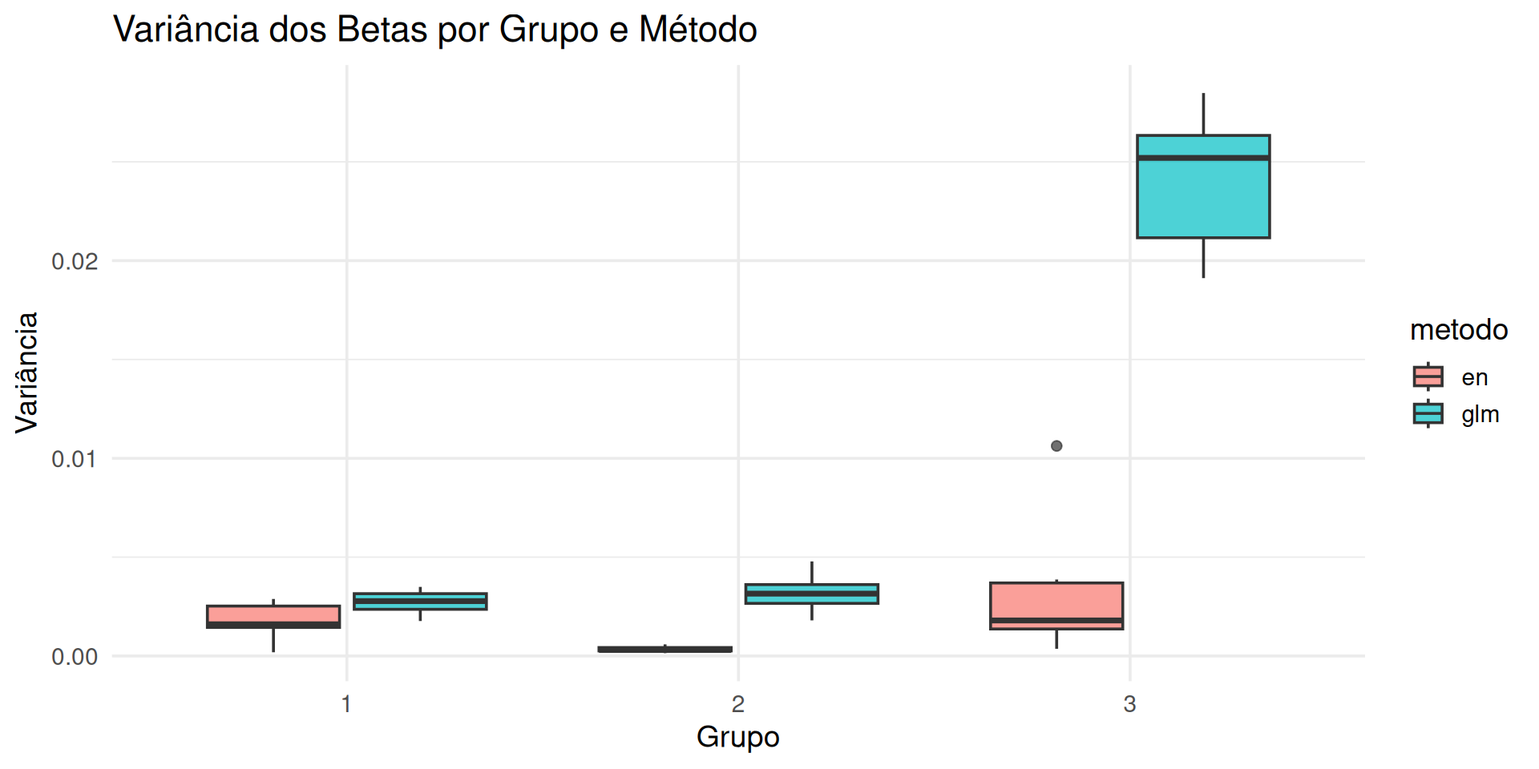
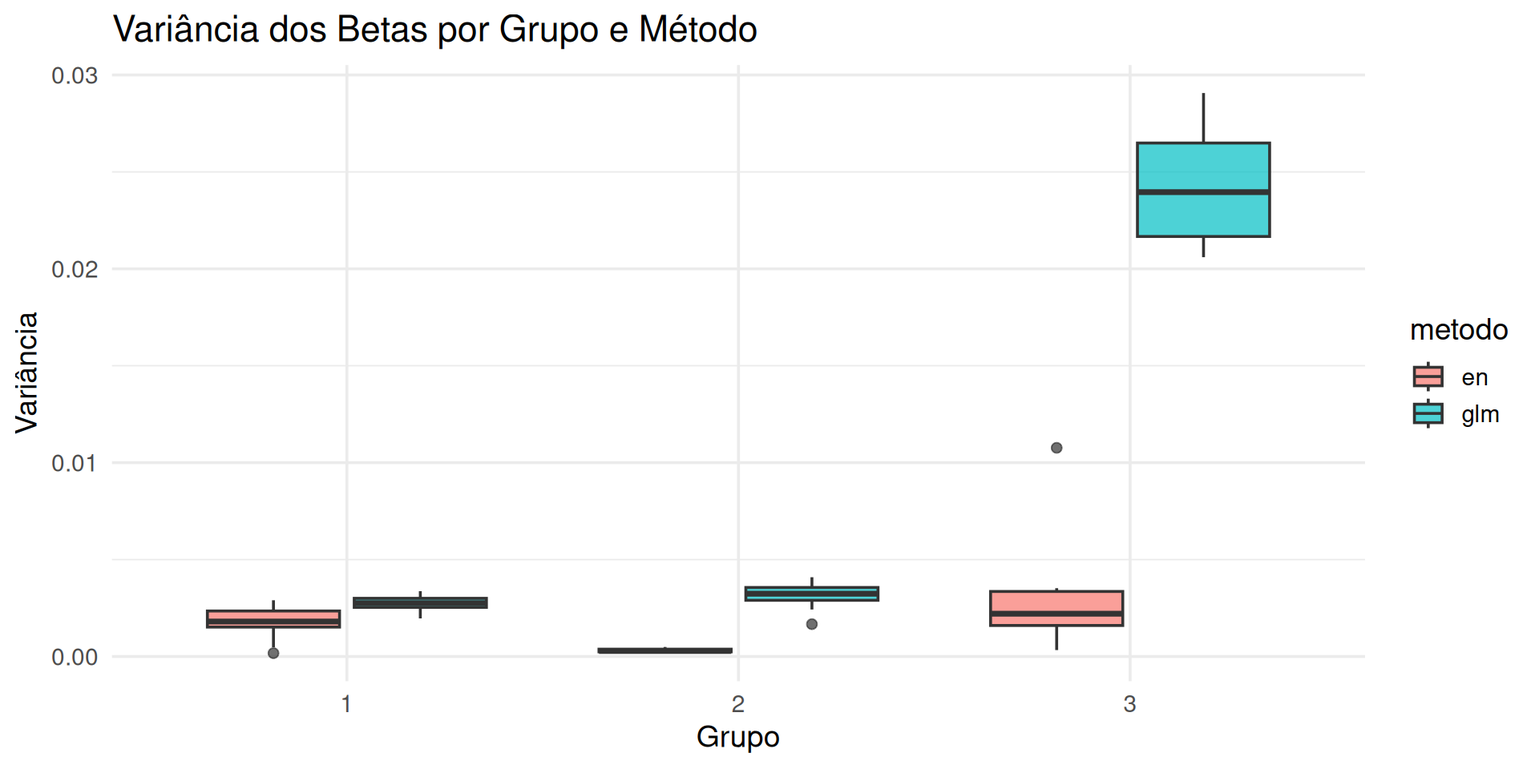
Built site for gh-pages

diff --git a/qmd/estimação.html b/qmd/estimação.html
@@ -273,9 +273,6 @@ window.Quarto = {
 </header>
 
 
-<div style="text-align: right">
-<p>“Se isto for possível,<br> Pois, me contem,<br> Como escrever de novo,<br> Um jornal de ontem”<br> Tom Zé</p>
-</div>
 <section id="regularização-como-um-limiar-suave" class="level2" data-number="2.1">
 <h2 data-number="2.1" class="anchored" data-anchor-id="regularização-como-um-limiar-suave"><span class="header-section-number">2.1</span> Regularização como um limiar suave</h2>
 <p>Até agora vimos exemplos de como a regularização pode ser vista como uma função de perda na estimação de mínimos quadrados. Essa ideia pode ser estendida para a estimação via máxima verossimilhança (como veremos adiante). Antes disso, mostraremos um exemplo (retirado de <span class="citation" data-cites="islr">James, Witten, Hastie, &amp; Tibshirani (<a href="referências.html#ref-islr" role="doc-biblioref">2021</a>)</span>) de como a regressão ridge e lasso diminuem os coeficiente na prática.</p>
@@ -1100,7 +1097,10 @@ t2* 5.723713 0.25242782    3.843777</code></pre>
 MLE  87.5</code></pre>
 </div>
 </div>
+<p>Voltando do exemplo de regressão linear com outlier (erros T-Student).</p>
 <div class="cell">
+<details class="code-fold">
+<summary>Código</summary>
 <div class="code-copy-outer-scaffold"><div class="sourceCode cell-code" id="cb28"><pre class="sourceCode r code-with-copy"><code class="sourceCode r"><span id="cb28-1"><a href="#cb28-1" aria-hidden="true" tabindex="-1"></a><span class="fu">set.seed</span>(<span class="dv">12345</span>)</span>
 <span id="cb28-2"><a href="#cb28-2" aria-hidden="true" tabindex="-1"></a>x <span class="ot">=</span> <span class="fu">cbind</span>(<span class="dv">1</span>, <span class="fu">rnorm</span>(<span class="dv">20</span>))</span>
 <span id="cb28-3"><a href="#cb28-3" aria-hidden="true" tabindex="-1"></a>e <span class="ot">=</span> <span class="fu">rt</span>(<span class="dv">20</span>, <span class="dv">1</span>)</span>
@@ -1120,6 +1120,7 @@ MLE  87.5</code></pre>
 <span id="cb28-17"><a href="#cb28-17" aria-hidden="true" tabindex="-1"></a></span>
 <span id="cb28-18"><a href="#cb28-18" aria-hidden="true" tabindex="-1"></a>res_lasso <span class="ot">=</span> y <span class="sc">-</span> x <span class="sc">%*%</span> beta_lasso</span>
 <span id="cb28-19"><a href="#cb28-19" aria-hidden="true" tabindex="-1"></a>res_lm    <span class="ot">=</span> y <span class="sc">-</span> x <span class="sc">%*%</span> beta_lm</span></code></pre></div><button title="Copiar para a área de transferência" class="code-copy-button"><i class="bi"></i></button></div>
+</details>
 </div>
 <div class="cell">
 <details class="code-fold">
@@ -1139,7 +1140,7 @@ MLE  87.5</code></pre>
 <div class="cell">
 <div class="code-copy-outer-scaffold"><div class="sourceCode cell-code" id="cb30"><pre class="sourceCode r code-with-copy"><code class="sourceCode r"><span id="cb30-1"><a href="#cb30-1" aria-hidden="true" tabindex="-1"></a><span class="fu">set.seed</span>(<span class="dv">12345</span>)</span>
 <span id="cb30-2"><a href="#cb30-2" aria-hidden="true" tabindex="-1"></a></span>
-<span id="cb30-3"><a href="#cb30-3" aria-hidden="true" tabindex="-1"></a>iter <span class="ot">=</span> <span class="dv">200</span></span>
+<span id="cb30-3"><a href="#cb30-3" aria-hidden="true" tabindex="-1"></a>iter <span class="ot">=</span> <span class="dv">400</span></span>
 <span id="cb30-4"><a href="#cb30-4" aria-hidden="true" tabindex="-1"></a>n <span class="ot">=</span> <span class="dv">200</span></span>
 <span id="cb30-5"><a href="#cb30-5" aria-hidden="true" tabindex="-1"></a>bloco <span class="ot">=</span> <span class="dv">10</span></span>
 <span id="cb30-6"><a href="#cb30-6" aria-hidden="true" tabindex="-1"></a></span>
@@ -1189,7 +1190,7 @@ MLE  87.5</code></pre>
 <span id="cb31-3"><a href="#cb31-3" aria-hidden="true" tabindex="-1"></a>  <span class="cf">for</span> (metodo <span class="cf">in</span> <span class="fu">c</span>(<span class="st">"glm"</span>, <span class="st">"en"</span>)) {</span>
 <span id="cb31-4"><a href="#cb31-4" aria-hidden="true" tabindex="-1"></a>    <span class="cf">for</span> (i <span class="cf">in</span> <span class="fu">seq_along</span>(idxs)) {</span>
 <span id="cb31-5"><a href="#cb31-5" aria-hidden="true" tabindex="-1"></a>      beta_idx <span class="ot">=</span> idxs[i]</span>
-<span id="cb31-6"><a href="#cb31-6" aria-hidden="true" tabindex="-1"></a>      beta_number <span class="ot">=</span> beta_idx <span class="sc">-</span> <span class="dv">1</span>   <span class="co"># como pedido</span></span>
+<span id="cb31-6"><a href="#cb31-6" aria-hidden="true" tabindex="-1"></a>      beta_number <span class="ot">=</span> beta_idx <span class="sc">-</span> <span class="dv">1</span></span>
 <span id="cb31-7"><a href="#cb31-7" aria-hidden="true" tabindex="-1"></a>      </span>
 <span id="cb31-8"><a href="#cb31-8" aria-hidden="true" tabindex="-1"></a>      <span class="fu">hist</span>(</span>
 <span id="cb31-9"><a href="#cb31-9" aria-hidden="true" tabindex="-1"></a>        estimativas[metodo, beta_idx, ],</span>
@@ -1197,21 +1198,22 @@ MLE  87.5</code></pre>
 <span id="cb31-11"><a href="#cb31-11" aria-hidden="true" tabindex="-1"></a>        <span class="at">xlab =</span> <span class="st">""</span>, <span class="at">ylab =</span> <span class="st">""</span>,</span>
 <span id="cb31-12"><a href="#cb31-12" aria-hidden="true" tabindex="-1"></a>        <span class="at">xlim =</span> xlims[[i]]</span>
 <span id="cb31-13"><a href="#cb31-13" aria-hidden="true" tabindex="-1"></a>      )</span>
-<span id="cb31-14"><a href="#cb31-14" aria-hidden="true" tabindex="-1"></a>    }</span>
-<span id="cb31-15"><a href="#cb31-15" aria-hidden="true" tabindex="-1"></a>    </span>
-<span id="cb31-16"><a href="#cb31-16" aria-hidden="true" tabindex="-1"></a>  }</span>
-<span id="cb31-17"><a href="#cb31-17" aria-hidden="true" tabindex="-1"></a>}</span>
-<span id="cb31-18"><a href="#cb31-18" aria-hidden="true" tabindex="-1"></a></span>
-<span id="cb31-19"><a href="#cb31-19" aria-hidden="true" tabindex="-1"></a><span class="fu">plot_hist_block</span>(</span>
-<span id="cb31-20"><a href="#cb31-20" aria-hidden="true" tabindex="-1"></a>  <span class="at">idxs =</span> <span class="fu">c</span>(<span class="dv">1</span>, <span class="dv">4</span>, <span class="dv">11</span>),</span>
-<span id="cb31-21"><a href="#cb31-21" aria-hidden="true" tabindex="-1"></a>  <span class="at">xlims =</span> <span class="fu">list</span>(<span class="fu">c</span>(<span class="sc">-</span><span class="fl">0.2</span>, <span class="fl">0.5</span>), <span class="fu">c</span>(<span class="fl">0.1</span>, <span class="fl">0.5</span>), <span class="fu">c</span>(<span class="fl">0.5</span>, <span class="fl">0.9</span>))</span>
-<span id="cb31-22"><a href="#cb31-22" aria-hidden="true" tabindex="-1"></a>)</span></code></pre></div><button title="Copiar para a área de transferência" class="code-copy-button"><i class="bi"></i></button></div>
+<span id="cb31-14"><a href="#cb31-14" aria-hidden="true" tabindex="-1"></a>      <span class="fu">abline</span>(<span class="at">v =</span> beta[idxs[i]], <span class="at">col =</span> <span class="dv">2</span>, <span class="at">lwd =</span> <span class="dv">2</span>)</span>
+<span id="cb31-15"><a href="#cb31-15" aria-hidden="true" tabindex="-1"></a>    }</span>
+<span id="cb31-16"><a href="#cb31-16" aria-hidden="true" tabindex="-1"></a>    </span>
+<span id="cb31-17"><a href="#cb31-17" aria-hidden="true" tabindex="-1"></a>  }</span>
+<span id="cb31-18"><a href="#cb31-18" aria-hidden="true" tabindex="-1"></a>}</span>
+<span id="cb31-19"><a href="#cb31-19" aria-hidden="true" tabindex="-1"></a></span>
+<span id="cb31-20"><a href="#cb31-20" aria-hidden="true" tabindex="-1"></a><span class="fu">plot_hist_block</span>(</span>
+<span id="cb31-21"><a href="#cb31-21" aria-hidden="true" tabindex="-1"></a>  <span class="at">idxs =</span> <span class="fu">c</span>(<span class="dv">1</span>, <span class="dv">4</span>, <span class="dv">11</span>),</span>
+<span id="cb31-22"><a href="#cb31-22" aria-hidden="true" tabindex="-1"></a>  <span class="at">xlims =</span> <span class="fu">list</span>(<span class="fu">c</span>(<span class="sc">-</span><span class="fl">0.2</span>, <span class="fl">0.5</span>), <span class="fu">c</span>(<span class="fl">0.1</span>, <span class="fl">0.5</span>), <span class="fu">c</span>(<span class="fl">0.5</span>, <span class="fl">0.9</span>))</span>
+<span id="cb31-23"><a href="#cb31-23" aria-hidden="true" tabindex="-1"></a>)</span></code></pre></div><button title="Copiar para a área de transferência" class="code-copy-button"><i class="bi"></i></button></div>
 </details>
 <div class="cell-output-display">
 <div class="quarto-figure quarto-figure-center">
 <figure class="figure">
 <p><img src="estimação_files/figure-html/unnamed-chunk-30-1.png" class="img-fluid figure-img" width="672"></p>
-<figcaption>Variâncias dos betas do grupo 1 (significativos)</figcaption>
+<figcaption>Variâncias dos betas do grupo 1 (significativos), beta real em vermelho.</figcaption>
 </figure>
 </div>
 </div>
@@ -1228,7 +1230,7 @@ MLE  87.5</code></pre>
 <div class="quarto-figure quarto-figure-center">
 <figure class="figure">
 <p><img src="estimação_files/figure-html/unnamed-chunk-31-1.png" class="img-fluid figure-img" width="672"></p>
-<figcaption>Variâncias dos betas do grupo 2 (não significativos)</figcaption>
+<figcaption>Variâncias dos betas do grupo 2 (não significativos), beta real em vermelho.</figcaption>
 </figure>
 </div>
 </div>
@@ -1245,7 +1247,7 @@ MLE  87.5</code></pre>
 <div class="quarto-figure quarto-figure-center">
 <figure class="figure">
 <p><img src="estimação_files/figure-html/unnamed-chunk-32-1.png" class="img-fluid figure-img" width="672"></p>
-<figcaption>Variâncias dos betas do grupo 3 (covariáveis autocorrelacionadas)</figcaption>
+<figcaption>Variâncias dos betas do grupo 3 (covariáveis autocorrelacionadas), beta real em vermelho.</figcaption>
 </figure>
 </div>
 </div>
@@ -1344,9 +1346,9 @@ MLE  87.5</code></pre>
 <span id="cb36-15"><a href="#cb36-15" aria-hidden="true" tabindex="-1"></a>  dplyr<span class="sc">::</span><span class="fu">mutate</span>(<span class="at">iter =</span> <span class="fu">as.integer</span>(iter))</span>
 <span id="cb36-16"><a href="#cb36-16" aria-hidden="true" tabindex="-1"></a></span>
 <span id="cb36-17"><a href="#cb36-17" aria-hidden="true" tabindex="-1"></a><span class="fu">ggplot</span>(norma,</span>
-<span id="cb36-18"><a href="#cb36-18" aria-hidden="true" tabindex="-1"></a>       <span class="fu">aes</span>(<span class="at">x =</span> metodo, <span class="at">y =</span> valor, <span class="at">fill =</span> norma)) <span class="sc">+</span></span>
+<span id="cb36-18"><a href="#cb36-18" aria-hidden="true" tabindex="-1"></a>       <span class="fu">aes</span>(<span class="at">x =</span> norma, <span class="at">y =</span> valor, <span class="at">fill =</span> metodo)) <span class="sc">+</span></span>
 <span id="cb36-19"><a href="#cb36-19" aria-hidden="true" tabindex="-1"></a>  <span class="fu">geom_boxplot</span>(<span class="at">alpha =</span> <span class="fl">0.7</span>) <span class="sc">+</span></span>
-<span id="cb36-20"><a href="#cb36-20" aria-hidden="true" tabindex="-1"></a>  <span class="fu">labs</span>(<span class="at">x =</span> <span class="st">"Método"</span>, <span class="at">y =</span> <span class="st">"Norma"</span>,</span>
+<span id="cb36-20"><a href="#cb36-20" aria-hidden="true" tabindex="-1"></a>  <span class="fu">labs</span>(<span class="at">x =</span> <span class="st">"Tipo de norma"</span>, <span class="at">y =</span> <span class="st">"Norma"</span>,</span>
 <span id="cb36-21"><a href="#cb36-21" aria-hidden="true" tabindex="-1"></a>       <span class="at">title =</span> <span class="st">"Norma dos Betas (ao longo das iterações bootstrap)"</span>) <span class="sc">+</span></span>
 <span id="cb36-22"><a href="#cb36-22" aria-hidden="true" tabindex="-1"></a>  <span class="fu">theme_minimal</span>(<span class="at">base_size =</span> <span class="dv">14</span>)</span></code></pre></div><button title="Copiar para a área de transferência" class="code-copy-button"><i class="bi"></i></button></div>
 </details>
@@ -1358,6 +1360,54 @@ MLE  87.5</code></pre>
 </div>
 </div>
 </div>
+<p>Como esperado, as normas de beta (em cada iteração e excluído o intercepto) são, em geral, menores na regressão EN comparado com o MLE.</p>
+<div class="cell">
+<details class="code-fold">
+<summary>Código</summary>
+<div class="code-copy-outer-scaffold"><div class="sourceCode cell-code" id="cb37"><pre class="sourceCode r code-with-copy"><code class="sourceCode r"><span id="cb37-1"><a href="#cb37-1" aria-hidden="true" tabindex="-1"></a><span class="fu">library</span>(dplyr)</span>
+<span id="cb37-2"><a href="#cb37-2" aria-hidden="true" tabindex="-1"></a><span class="fu">library</span>(tidyr)</span>
+<span id="cb37-3"><a href="#cb37-3" aria-hidden="true" tabindex="-1"></a></span>
+<span id="cb37-4"><a href="#cb37-4" aria-hidden="true" tabindex="-1"></a>significancia <span class="ot">=</span></span>
+<span id="cb37-5"><a href="#cb37-5" aria-hidden="true" tabindex="-1"></a>  estimativas <span class="sc">|&gt;</span></span>
+<span id="cb37-6"><a href="#cb37-6" aria-hidden="true" tabindex="-1"></a>  <span class="fu">apply</span>(<span class="fu">c</span>(<span class="dv">1</span>,<span class="dv">2</span>),</span>
+<span id="cb37-7"><a href="#cb37-7" aria-hidden="true" tabindex="-1"></a>        <span class="cf">function</span>(x) {q <span class="ot">=</span> <span class="fu">quantile</span>(x, <span class="at">probs =</span> <span class="fu">c</span>(.<span class="dv">025</span>, .<span class="dv">975</span>)); <span class="dv">0</span> <span class="sc">&gt;</span> q[<span class="dv">1</span>] <span class="sc">&amp;</span> <span class="dv">0</span> <span class="sc">&lt;</span> q[<span class="dv">2</span>]}</span>
+<span id="cb37-8"><a href="#cb37-8" aria-hidden="true" tabindex="-1"></a>        ) <span class="sc">|&gt;</span></span>
+<span id="cb37-9"><a href="#cb37-9" aria-hidden="true" tabindex="-1"></a>  <span class="fu">rbind</span>(<span class="st">"real"</span> <span class="ot">=</span> beta <span class="sc">==</span> <span class="dv">0</span>) <span class="sc">|&gt;</span></span>
+<span id="cb37-10"><a href="#cb37-10" aria-hidden="true" tabindex="-1"></a>  <span class="fu">t</span>() <span class="sc">|&gt;</span></span>
+<span id="cb37-11"><a href="#cb37-11" aria-hidden="true" tabindex="-1"></a>  {\(.) <span class="sc">!</span>.[,<span class="fu">c</span>(<span class="dv">3</span>,<span class="dv">1</span>,<span class="dv">2</span>)]}() <span class="sc">|&gt;</span></span>
+<span id="cb37-12"><a href="#cb37-12" aria-hidden="true" tabindex="-1"></a>  tibble<span class="sc">::</span><span class="fu">as_tibble</span>()</span>
+<span id="cb37-13"><a href="#cb37-13" aria-hidden="true" tabindex="-1"></a></span>
+<span id="cb37-14"><a href="#cb37-14" aria-hidden="true" tabindex="-1"></a>significancia_long<span class="ot">=</span></span>
+<span id="cb37-15"><a href="#cb37-15" aria-hidden="true" tabindex="-1"></a>  significancia <span class="sc">|&gt;</span></span>
+<span id="cb37-16"><a href="#cb37-16" aria-hidden="true" tabindex="-1"></a>  <span class="fu">mutate</span>(<span class="at">sim =</span> <span class="fu">row_number</span>()) <span class="sc">|&gt;</span></span>
+<span id="cb37-17"><a href="#cb37-17" aria-hidden="true" tabindex="-1"></a>  <span class="fu">pivot_longer</span>(<span class="sc">-</span>sim, <span class="at">names_to =</span> <span class="st">"modelo"</span>, <span class="at">values_to =</span> <span class="st">"sig"</span>) <span class="sc">|&gt;</span></span>
+<span id="cb37-18"><a href="#cb37-18" aria-hidden="true" tabindex="-1"></a>  <span class="fu">mutate</span>(<span class="at">sim =</span> sim <span class="sc">-</span> <span class="dv">1</span>)</span>
+<span id="cb37-19"><a href="#cb37-19" aria-hidden="true" tabindex="-1"></a></span>
+<span id="cb37-20"><a href="#cb37-20" aria-hidden="true" tabindex="-1"></a><span class="fu">ggplot</span>(significancia_long, <span class="fu">aes</span>(<span class="at">x =</span> modelo, <span class="at">y =</span> sim, <span class="at">fill =</span> sig)) <span class="sc">+</span></span>
+<span id="cb37-21"><a href="#cb37-21" aria-hidden="true" tabindex="-1"></a>  <span class="fu">geom_tile</span>(<span class="at">color =</span> <span class="st">"white"</span>) <span class="sc">+</span></span>
+<span id="cb37-22"><a href="#cb37-22" aria-hidden="true" tabindex="-1"></a>  <span class="fu">scale_fill_manual</span>(</span>
+<span id="cb37-23"><a href="#cb37-23" aria-hidden="true" tabindex="-1"></a>    <span class="at">values =</span> <span class="fu">c</span>(<span class="st">`</span><span class="at">TRUE</span><span class="st">`</span> <span class="ot">=</span> <span class="st">"darkgreen"</span>, <span class="st">`</span><span class="at">FALSE</span><span class="st">`</span> <span class="ot">=</span> <span class="st">"red"</span>),</span>
+<span id="cb37-24"><a href="#cb37-24" aria-hidden="true" tabindex="-1"></a>    <span class="at">labels =</span> <span class="fu">c</span>(<span class="st">"Não significativo"</span>, <span class="st">"Significativo"</span>)</span>
+<span id="cb37-25"><a href="#cb37-25" aria-hidden="true" tabindex="-1"></a>  ) <span class="sc">+</span></span>
+<span id="cb37-26"><a href="#cb37-26" aria-hidden="true" tabindex="-1"></a>  <span class="fu">scale_y_reverse</span>() <span class="sc">+</span></span>
+<span id="cb37-27"><a href="#cb37-27" aria-hidden="true" tabindex="-1"></a>  <span class="fu">labs</span>(<span class="at">x =</span> <span class="st">"Modelo"</span>, <span class="at">y =</span> <span class="st">"Beta"</span>, <span class="at">fill =</span> <span class="st">""</span>) <span class="sc">+</span></span>
+<span id="cb37-28"><a href="#cb37-28" aria-hidden="true" tabindex="-1"></a>  <span class="fu">theme_minimal</span>() <span class="sc">+</span></span>
+<span id="cb37-29"><a href="#cb37-29" aria-hidden="true" tabindex="-1"></a>  <span class="fu">theme</span>(</span>
+<span id="cb37-30"><a href="#cb37-30" aria-hidden="true" tabindex="-1"></a>    <span class="at">axis.text.x =</span> <span class="fu">element_text</span>(<span class="at">angle =</span> <span class="dv">270</span>, <span class="at">hjust =</span> <span class="dv">1</span>),</span>
+<span id="cb37-31"><a href="#cb37-31" aria-hidden="true" tabindex="-1"></a>    <span class="at">panel.grid.major =</span> <span class="fu">element_blank</span>(),</span>
+<span id="cb37-32"><a href="#cb37-32" aria-hidden="true" tabindex="-1"></a>    <span class="at">panel.grid.minor =</span> <span class="fu">element_blank</span>()</span>
+<span id="cb37-33"><a href="#cb37-33" aria-hidden="true" tabindex="-1"></a>  ) <span class="sc">+</span></span>
+<span id="cb37-34"><a href="#cb37-34" aria-hidden="true" tabindex="-1"></a>  <span class="fu">coord_equal</span>()</span></code></pre></div><button title="Copiar para a área de transferência" class="code-copy-button"><i class="bi"></i></button></div>
+</details>
+<div class="cell-output-display">
+<div>
+<figure class="figure">
+<p><img src="estimação_files/figure-html/unnamed-chunk-36-1.png" class="img-fluid figure-img" width="672"></p>
+</figure>
+</div>
+</div>
+</div>
+<p>Acima temos uma pseudo-significância dos estimadores.</p>
 
 
 <div id="refs" class="references csl-bib-body hanging-indent" data-entry-spacing="0" data-line-spacing="2" role="list" style="display: none">

diff --git a/qmd/tunagem.html b/qmd/tunagem.html
@@ -302,21 +302,11 @@ P_{\alpha, \lambda}(\beta) =
 <p>Fixado um <span class="math inline">\(\alpha\)</span>, a seleção de <span class="math inline">\(\lambda\)</span> feita pelo <code>glmnet</code> <span class="citation" data-cites="en_glm">Tay et al. (<a href="referências.html#ref-en_glm" role="doc-biblioref">2023</a>)</span></p>
 <p>Lambda pode ser selecionado como aquele que dá um modelo com tantas covariáveis.</p>
 <div class="cell">
-<div class="code-copy-outer-scaffold"><div class="sourceCode cell-code" id="cb1"><pre class="sourceCode r code-with-copy"><code class="sourceCode r"><span id="cb1-1"><a href="#cb1-1" aria-hidden="true" tabindex="-1"></a><span class="fu">library</span>(glmnet)</span></code></pre></div><button title="Copiar para a área de transferência" class="code-copy-button"><i class="bi"></i></button></div>
-<div class="cell-output cell-output-stderr">
-<pre><code>Loading required package: Matrix</code></pre>
-</div>
-<div class="cell-output cell-output-stderr">
-<pre><code>Loaded glmnet 4.1-10</code></pre>
-</div>
-<div class="code-copy-outer-scaffold"><div class="sourceCode cell-code" id="cb4"><pre class="sourceCode r code-with-copy"><code class="sourceCode r"><span id="cb4-1"><a href="#cb4-1" aria-hidden="true" tabindex="-1"></a>x <span class="ot">=</span> <span class="fu">cbind</span>(<span class="dv">1</span>, <span class="dv">1</span><span class="sc">:</span><span class="dv">10</span>)</span>
-<span id="cb4-2"><a href="#cb4-2" aria-hidden="true" tabindex="-1"></a>y <span class="ot">=</span> <span class="dv">1</span><span class="sc">:</span><span class="dv">10</span><span class="sc">+</span><span class="dv">1</span></span>
-<span id="cb4-3"><a href="#cb4-3" aria-hidden="true" tabindex="-1"></a>fit <span class="ot">=</span> <span class="fu">glmnet</span>(x, y)</span>
-<span id="cb4-4"><a href="#cb4-4" aria-hidden="true" tabindex="-1"></a><span class="fu">plot</span>(fit)</span></code></pre></div><button title="Copiar para a área de transferência" class="code-copy-button"><i class="bi"></i></button></div>
-<div class="cell-output cell-output-stderr">
-<pre><code>Warning in plotCoef(x$beta, lambda = x$lambda, df = x$df, dev = x$dev.ratio, :
-1 or less nonzero coefficients; glmnet plot is not meaningful</code></pre>
-</div>
+<div class="code-copy-outer-scaffold"><div class="sourceCode cell-code" id="cb1"><pre class="sourceCode r code-with-copy"><code class="sourceCode r"><span id="cb1-1"><a href="#cb1-1" aria-hidden="true" tabindex="-1"></a><span class="fu">library</span>(glmnet)</span>
+<span id="cb1-2"><a href="#cb1-2" aria-hidden="true" tabindex="-1"></a>x <span class="ot">=</span> <span class="fu">cbind</span>(<span class="dv">1</span>, <span class="dv">1</span><span class="sc">:</span><span class="dv">10</span>)</span>
+<span id="cb1-3"><a href="#cb1-3" aria-hidden="true" tabindex="-1"></a>y <span class="ot">=</span> <span class="dv">1</span><span class="sc">:</span><span class="dv">10</span><span class="sc">+</span><span class="dv">1</span></span>
+<span id="cb1-4"><a href="#cb1-4" aria-hidden="true" tabindex="-1"></a>fit <span class="ot">=</span> <span class="fu">glmnet</span>(x, y)</span>
+<span id="cb1-5"><a href="#cb1-5" aria-hidden="true" tabindex="-1"></a><span class="fu">plot</span>(fit)</span></code></pre></div><button title="Copiar para a área de transferência" class="code-copy-button"><i class="bi"></i></button></div>
 <div class="cell-output-display">
 <div>
 <figure class="figure">
@@ -326,12 +316,8 @@ P_{\alpha, \lambda}(\beta) =
 </div>
 </div>
 <div class="cell">
-<div class="code-copy-outer-scaffold"><div class="sourceCode cell-code" id="cb6"><pre class="sourceCode r code-with-copy"><code class="sourceCode r"><span id="cb6-1"><a href="#cb6-1" aria-hidden="true" tabindex="-1"></a>cvfit <span class="ot">=</span> <span class="fu">cv.glmnet</span>(x, y)</span></code></pre></div><button title="Copiar para a área de transferência" class="code-copy-button"><i class="bi"></i></button></div>
-<div class="cell-output cell-output-stderr">
-<pre><code>Warning: Option grouped=FALSE enforced in cv.glmnet, since &lt; 3 observations per
-fold</code></pre>
-</div>
-<div class="code-copy-outer-scaffold"><div class="sourceCode cell-code" id="cb8"><pre class="sourceCode r code-with-copy"><code class="sourceCode r"><span id="cb8-1"><a href="#cb8-1" aria-hidden="true" tabindex="-1"></a><span class="fu">plot</span>(cvfit)</span></code></pre></div><button title="Copiar para a área de transferência" class="code-copy-button"><i class="bi"></i></button></div>
+<div class="code-copy-outer-scaffold"><div class="sourceCode cell-code" id="cb2"><pre class="sourceCode r code-with-copy"><code class="sourceCode r"><span id="cb2-1"><a href="#cb2-1" aria-hidden="true" tabindex="-1"></a>cvfit <span class="ot">=</span> <span class="fu">cv.glmnet</span>(x, y)</span>
+<span id="cb2-2"><a href="#cb2-2" aria-hidden="true" tabindex="-1"></a><span class="fu">plot</span>(cvfit)</span></code></pre></div><button title="Copiar para a área de transferência" class="code-copy-button"><i class="bi"></i></button></div>
 <div class="cell-output-display">
 <div>
 <figure class="figure">
@@ -349,42 +335,42 @@ fold</code></pre>
 <p>O EQM de <span class="math inline">\(\lambda'\)</span> será a média do EQM dos <span class="math inline">\(K\)</span> subconjuntos.</p>
 <p>As linhas verticais pontilhadas trazem valores especiais de <span class="math inline">\(\lambda\)</span>. <code>lambda.min</code> é o valor de <span class="math inline">\(\lambda\)</span> que dá o modelo com menor EQM. Com isso, o programa calcula <code>lambda.1se</code>, o <span class="math inline">\(\lambda\)</span> que está um desvio padrão acima de <code>lambda.min</code>. Isso permite que o modelo cresça ao máximo as estimativas dos betas sem crescer muito o MSE.</p>
 <div class="cell">
-<div class="code-copy-outer-scaffold"><div class="sourceCode cell-code" id="cb9"><pre class="sourceCode r code-with-copy"><code class="sourceCode r"><span id="cb9-1"><a href="#cb9-1" aria-hidden="true" tabindex="-1"></a>cvfit<span class="sc">$</span>lambda.min</span></code></pre></div><button title="Copiar para a área de transferência" class="code-copy-button"><i class="bi"></i></button></div>
+<div class="code-copy-outer-scaffold"><div class="sourceCode cell-code" id="cb3"><pre class="sourceCode r code-with-copy"><code class="sourceCode r"><span id="cb3-1"><a href="#cb3-1" aria-hidden="true" tabindex="-1"></a>cvfit<span class="sc">$</span>lambda.min</span></code></pre></div><button title="Copiar para a área de transferência" class="code-copy-button"><i class="bi"></i></button></div>
 <div class="cell-output cell-output-stdout">
 <pre><code>[1] 0.08372852</code></pre>
 </div>
-<div class="code-copy-outer-scaffold"><div class="sourceCode cell-code" id="cb11"><pre class="sourceCode r code-with-copy"><code class="sourceCode r"><span id="cb11-1"><a href="#cb11-1" aria-hidden="true" tabindex="-1"></a>cvfit<span class="sc">$</span>lambda<span class="fl">.1</span>se</span></code></pre></div><button title="Copiar para a área de transferência" class="code-copy-button"><i class="bi"></i></button></div>
+<div class="code-copy-outer-scaffold"><div class="sourceCode cell-code" id="cb5"><pre class="sourceCode r code-with-copy"><code class="sourceCode r"><span id="cb5-1"><a href="#cb5-1" aria-hidden="true" tabindex="-1"></a>cvfit<span class="sc">$</span>lambda<span class="fl">.1</span>se</span></code></pre></div><button title="Copiar para a área de transferência" class="code-copy-button"><i class="bi"></i></button></div>
 <div class="cell-output cell-output-stdout">
 <pre><code>[1] 0.09189195</code></pre>
 </div>
 </div>
 <p>A predição de novos valores é feita por meio da função <code>predict</code></p>
 <div class="cell">
-<div class="code-copy-outer-scaffold"><div class="sourceCode cell-code" id="cb13"><pre class="sourceCode r code-with-copy"><code class="sourceCode r"><span id="cb13-1"><a href="#cb13-1" aria-hidden="true" tabindex="-1"></a><span class="fu">predict</span>(cvfit, <span class="at">newx =</span> <span class="fu">cbind</span>(<span class="dv">1</span>, <span class="dv">12</span>), <span class="at">s =</span> <span class="st">"lambda.min"</span>)</span></code></pre></div><button title="Copiar para a área de transferência" class="code-copy-button"><i class="bi"></i></button></div>
+<div class="code-copy-outer-scaffold"><div class="sourceCode cell-code" id="cb7"><pre class="sourceCode r code-with-copy"><code class="sourceCode r"><span id="cb7-1"><a href="#cb7-1" aria-hidden="true" tabindex="-1"></a><span class="fu">predict</span>(cvfit, <span class="at">newx =</span> <span class="fu">cbind</span>(<span class="dv">1</span>, <span class="dv">12</span>), <span class="at">s =</span> <span class="st">"lambda.min"</span>)</span></code></pre></div><button title="Copiar para a área de transferência" class="code-copy-button"><i class="bi"></i></button></div>
 <div class="cell-output cell-output-stdout">
 <pre><code>     lambda.min
 [1,]   12.81052</code></pre>
 </div>
 </div>
 <div class="cell">
-<div class="code-copy-outer-scaffold"><div class="sourceCode cell-code" id="cb15"><pre class="sourceCode r code-with-copy"><code class="sourceCode r"><span id="cb15-1"><a href="#cb15-1" aria-hidden="true" tabindex="-1"></a><span class="fu">set.seed</span>(<span class="dv">12345</span>)</span>
-<span id="cb15-2"><a href="#cb15-2" aria-hidden="true" tabindex="-1"></a></span>
-<span id="cb15-3"><a href="#cb15-3" aria-hidden="true" tabindex="-1"></a>n <span class="ot">=</span> <span class="dv">200</span></span>
-<span id="cb15-4"><a href="#cb15-4" aria-hidden="true" tabindex="-1"></a>bloco <span class="ot">=</span> <span class="dv">10</span></span>
-<span id="cb15-5"><a href="#cb15-5" aria-hidden="true" tabindex="-1"></a></span>
-<span id="cb15-6"><a href="#cb15-6" aria-hidden="true" tabindex="-1"></a>X1 <span class="ot">=</span> <span class="fu">matrix</span>(<span class="fu">rnorm</span>(n<span class="sc">*</span>bloco<span class="sc">*</span><span class="dv">2</span>), <span class="at">ncol =</span> bloco<span class="sc">*</span><span class="dv">2</span>)</span>
-<span id="cb15-7"><a href="#cb15-7" aria-hidden="true" tabindex="-1"></a>beta1 <span class="ot">=</span> <span class="fu">c</span>( <span class="fu">runif</span>(bloco,<span class="sc">-</span><span class="fl">0.7</span>,<span class="fl">0.7</span>), <span class="fu">rep</span>(<span class="dv">0</span>,bloco) )</span>
-<span id="cb15-8"><a href="#cb15-8" aria-hidden="true" tabindex="-1"></a></span>
-<span id="cb15-9"><a href="#cb15-9" aria-hidden="true" tabindex="-1"></a>sigma <span class="ot">=</span></span>
-<span id="cb15-10"><a href="#cb15-10" aria-hidden="true" tabindex="-1"></a>  <span class="fu">matrix</span>(.<span class="dv">9</span>, <span class="at">nrow =</span> bloco, <span class="at">ncol =</span> bloco) <span class="sc">|&gt;</span></span>
-<span id="cb15-11"><a href="#cb15-11" aria-hidden="true" tabindex="-1"></a>  <span class="st">`</span><span class="at">diag&lt;-</span><span class="st">`</span>(<span class="dv">1</span>)</span>
-<span id="cb15-12"><a href="#cb15-12" aria-hidden="true" tabindex="-1"></a>X2 <span class="ot">=</span> mvtnorm<span class="sc">::</span><span class="fu">rmvnorm</span>(n, <span class="at">sigma =</span> sigma)</span>
-<span id="cb15-13"><a href="#cb15-13" aria-hidden="true" tabindex="-1"></a>beta2 <span class="ot">=</span> <span class="fu">c</span>(<span class="fl">0.6</span>, <span class="fu">rep</span>(<span class="dv">0</span>,bloco<span class="dv">-1</span>))</span>
-<span id="cb15-14"><a href="#cb15-14" aria-hidden="true" tabindex="-1"></a></span>
-<span id="cb15-15"><a href="#cb15-15" aria-hidden="true" tabindex="-1"></a>X <span class="ot">=</span> <span class="fu">cbind</span>(<span class="dv">1</span>,X1,X2)</span>
-<span id="cb15-16"><a href="#cb15-16" aria-hidden="true" tabindex="-1"></a>beta <span class="ot">=</span> <span class="fu">c</span>(<span class="fl">0.1</span>,beta1,beta2)</span>
-<span id="cb15-17"><a href="#cb15-17" aria-hidden="true" tabindex="-1"></a>eta <span class="ot">=</span> <span class="fu">exp</span>(X <span class="sc">%*%</span> beta)</span>
-<span id="cb15-18"><a href="#cb15-18" aria-hidden="true" tabindex="-1"></a>Y <span class="ot">=</span> <span class="fu">rpois</span>(n, eta)</span></code></pre></div><button title="Copiar para a área de transferência" class="code-copy-button"><i class="bi"></i></button></div>
+<div class="code-copy-outer-scaffold"><div class="sourceCode cell-code" id="cb9"><pre class="sourceCode r code-with-copy"><code class="sourceCode r"><span id="cb9-1"><a href="#cb9-1" aria-hidden="true" tabindex="-1"></a><span class="fu">set.seed</span>(<span class="dv">12345</span>)</span>
+<span id="cb9-2"><a href="#cb9-2" aria-hidden="true" tabindex="-1"></a></span>
+<span id="cb9-3"><a href="#cb9-3" aria-hidden="true" tabindex="-1"></a>n <span class="ot">=</span> <span class="dv">200</span></span>
+<span id="cb9-4"><a href="#cb9-4" aria-hidden="true" tabindex="-1"></a>bloco <span class="ot">=</span> <span class="dv">10</span></span>
+<span id="cb9-5"><a href="#cb9-5" aria-hidden="true" tabindex="-1"></a></span>
+<span id="cb9-6"><a href="#cb9-6" aria-hidden="true" tabindex="-1"></a>X1 <span class="ot">=</span> <span class="fu">matrix</span>(<span class="fu">rnorm</span>(n<span class="sc">*</span>bloco<span class="sc">*</span><span class="dv">2</span>), <span class="at">ncol =</span> bloco<span class="sc">*</span><span class="dv">2</span>)</span>
+<span id="cb9-7"><a href="#cb9-7" aria-hidden="true" tabindex="-1"></a>beta1 <span class="ot">=</span> <span class="fu">c</span>( <span class="fu">runif</span>(bloco,<span class="sc">-</span><span class="fl">0.7</span>,<span class="fl">0.7</span>), <span class="fu">rep</span>(<span class="dv">0</span>,bloco) )</span>
+<span id="cb9-8"><a href="#cb9-8" aria-hidden="true" tabindex="-1"></a></span>
+<span id="cb9-9"><a href="#cb9-9" aria-hidden="true" tabindex="-1"></a>sigma <span class="ot">=</span></span>
+<span id="cb9-10"><a href="#cb9-10" aria-hidden="true" tabindex="-1"></a>  <span class="fu">matrix</span>(.<span class="dv">9</span>, <span class="at">nrow =</span> bloco, <span class="at">ncol =</span> bloco) <span class="sc">|&gt;</span></span>
+<span id="cb9-11"><a href="#cb9-11" aria-hidden="true" tabindex="-1"></a>  <span class="st">`</span><span class="at">diag&lt;-</span><span class="st">`</span>(<span class="dv">1</span>)</span>
+<span id="cb9-12"><a href="#cb9-12" aria-hidden="true" tabindex="-1"></a>X2 <span class="ot">=</span> mvtnorm<span class="sc">::</span><span class="fu">rmvnorm</span>(n, <span class="at">sigma =</span> sigma)</span>
+<span id="cb9-13"><a href="#cb9-13" aria-hidden="true" tabindex="-1"></a>beta2 <span class="ot">=</span> <span class="fu">c</span>(<span class="fl">0.6</span>, <span class="fu">rep</span>(<span class="dv">0</span>,bloco<span class="dv">-1</span>))</span>
+<span id="cb9-14"><a href="#cb9-14" aria-hidden="true" tabindex="-1"></a></span>
+<span id="cb9-15"><a href="#cb9-15" aria-hidden="true" tabindex="-1"></a>X <span class="ot">=</span> <span class="fu">cbind</span>(<span class="dv">1</span>,X1,X2)</span>
+<span id="cb9-16"><a href="#cb9-16" aria-hidden="true" tabindex="-1"></a>beta <span class="ot">=</span> <span class="fu">c</span>(<span class="fl">0.1</span>,beta1,beta2)</span>
+<span id="cb9-17"><a href="#cb9-17" aria-hidden="true" tabindex="-1"></a>eta <span class="ot">=</span> <span class="fu">exp</span>(X <span class="sc">%*%</span> beta)</span>
+<span id="cb9-18"><a href="#cb9-18" aria-hidden="true" tabindex="-1"></a>Y <span class="ot">=</span> <span class="fu">rpois</span>(n, eta)</span></code></pre></div><button title="Copiar para a área de transferência" class="code-copy-button"><i class="bi"></i></button></div>
 </div>
 <div class="callout callout-style-default callout-tip callout-titled">
 <div class="callout-header d-flex align-content-center">

diff --git a/qmd/regularização.html b/qmd/regularização.html
@@ -380,8 +380,8 @@ cov\bigr(\hat\beta_{OLS}\bigr) = \sigma^2 (X^\top X)^{-1}.
 <details class="code-fold">
 <summary>Código</summary>
 <div class="code-copy-outer-scaffold"><div class="sourceCode cell-code" id="cb7"><pre class="sourceCode r code-with-copy"><code class="sourceCode r"><span id="cb7-1"><a href="#cb7-1" aria-hidden="true" tabindex="-1"></a><span class="fu">par</span>(<span class="at">mfrow=</span><span class="fu">c</span>(<span class="dv">1</span>,<span class="dv">2</span>))</span>
-<span id="cb7-2"><a href="#cb7-2" aria-hidden="true" tabindex="-1"></a><span class="fu">plot</span>(Y<span class="sc">~</span>X[,<span class="dv">1</span>])</span>
-<span id="cb7-3"><a href="#cb7-3" aria-hidden="true" tabindex="-1"></a><span class="fu">plot</span>(Y<span class="sc">~</span>X[,<span class="dv">2</span>])</span></code></pre></div><button title="Copiar para a área de transferência" class="code-copy-button"><i class="bi"></i></button></div>
+<span id="cb7-2"><a href="#cb7-2" aria-hidden="true" tabindex="-1"></a><span class="fu">plot</span>(Y<span class="sc">~</span>X[,<span class="dv">1</span>], <span class="at">xlim =</span> <span class="fu">c</span>(<span class="dv">0</span>,<span class="dv">20</span>))</span>
+<span id="cb7-3"><a href="#cb7-3" aria-hidden="true" tabindex="-1"></a><span class="fu">plot</span>(Y<span class="sc">~</span>X[,<span class="dv">2</span>], <span class="at">xlim =</span> <span class="fu">c</span>(<span class="dv">0</span>,<span class="dv">20</span>))</span></code></pre></div><button title="Copiar para a área de transferência" class="code-copy-button"><i class="bi"></i></button></div>
 </details>
 <div class="cell-output-display">
 <div class="quarto-figure quarto-figure-center">
